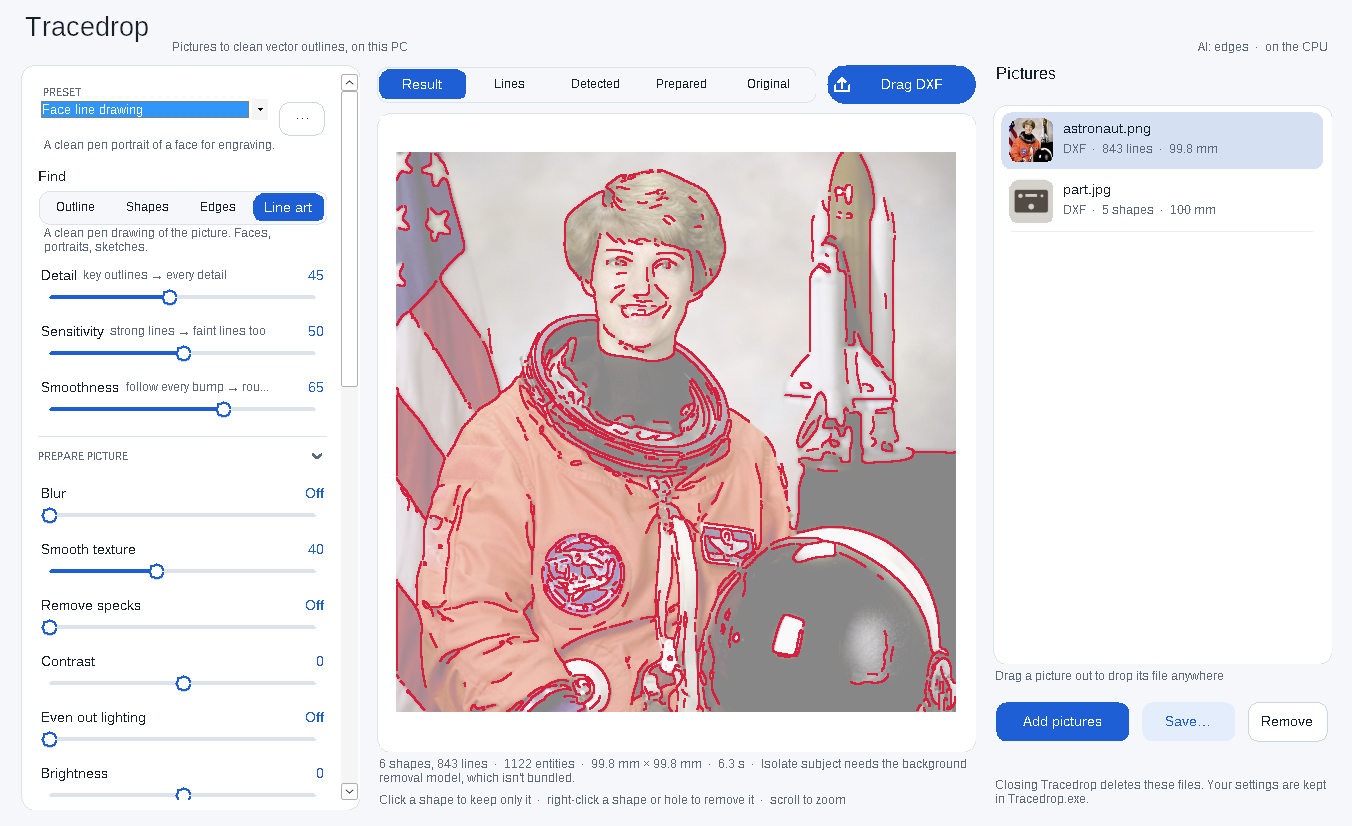
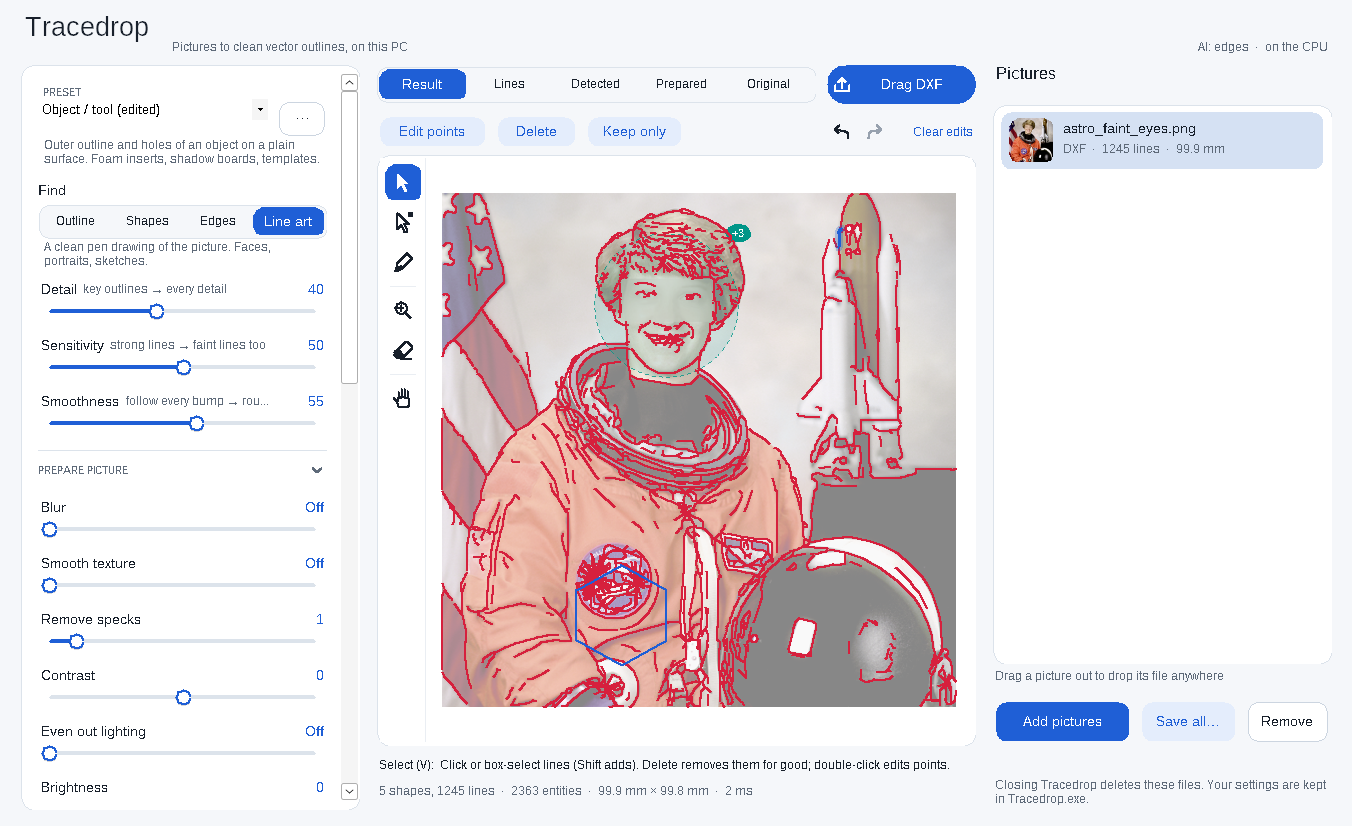
Tool hint on its own line under the canvas; new screenshot
Claude-Session: https://claude.ai/code/session_012qxyHdRBwqJBeKyxpBJzvX

diff --git a/TracedropApp/MainForm.cs b/TracedropApp/MainForm.cs
@@ -53,12 +53,12 @@ sealed partial class MainForm : Form
 
     static string ToolHint(EditTool tool) => tool switch
     {
-        EditTool.Select => "Click a line to select it (Shift adds), or drag a box. Delete removes it for good. Double-click to edit its points.",
-        EditTool.Points => "Click a line to edit its points. Drag points and handles; click the line to add a point. Alt-click: corner ↔ curve.",
-        EditTool.Pen => "Click for corners, drag for curves. Click the first point to close; Enter or right-click finishes; Esc cancels.",
-        EditTool.Find => "Mark where lines are missing: the AI looks again there, zoomed in. Scroll over an area for more or fewer lines.",
-        EditTool.Erase => "Mark where there should be no lines. Right-click an area to remove it. [ ] or Ctrl+scroll sizes it.",
-        _ => "Drag to move around. Scroll to zoom; double-click to fit. Hold Space with any tool to pan."
+        EditTool.Select => "Click or box-select lines (Shift adds). Delete removes them for good; double-click edits points.",
+        EditTool.Points => "Click a line, then drag its points and handles. Click the line to add a point; Alt-click: corner \u2194 curve.",
+        EditTool.Pen => "Click: corner. Drag: curve. Click the first point to close; Enter finishes, Esc cancels.",
+        EditTool.Find => "Mark where lines are missing: the AI looks closer there. Scroll over an area for more or fewer lines.",
+        EditTool.Erase => "Mark where there should be no lines. Right-click an area to remove it; [ ] sizes the brush.",
+        _ => "Drag to pan, scroll to zoom, double-click to fit. Space pans with any tool."
     };
 
     public MainForm(string exePath, string[] startupFiles)
@@ -222,11 +222,20 @@ sealed partial class MainForm : Form
         var infoRow = new Panel { Dock = DockStyle.Bottom, Height = 38 };
         infoRow.Controls.Add(_statsLabel);
 
+        // What the current tool does, on its own line under the canvas.
+        _toolHint.AutoSize = false;
+        _toolHint.Dock = DockStyle.Bottom;
+        _toolHint.Height = 26;
+        _toolHint.TextAlign = ContentAlignment.BottomLeft;
+        _toolHint.AutoEllipsis = true;
+        _toolHint.ForeColor = Palette.Ink;
+
         var spacer = new Panel { Dock = DockStyle.Top, Height = 6 };
         pane.Controls.Add(card);
         pane.Controls.Add(_optionsBar);
         pane.Controls.Add(spacer);
         pane.Controls.Add(topRow);
+        pane.Controls.Add(_toolHint);
         pane.Controls.Add(infoRow);
         return pane;
     }
@@ -249,12 +258,6 @@ sealed partial class MainForm : Form
         _deleteButton.Click += (_, _) => { _preview.DeleteSelection(); _preview.Focus(); };
         _keepOnlyButton.Click += (_, _) => { _preview.KeepOnlySelection(); _preview.Focus(); };
 
-        _toolHint.AutoSize = false;
-        _toolHint.Dock = DockStyle.Fill;
-        _toolHint.TextAlign = ContentAlignment.MiddleLeft;
-        _toolHint.Padding = new Padding(10, 0, 6, 0);
-        _toolHint.AutoEllipsis = true;
-
         _clearEditsLink.Text = "Clear edits";
         _clearEditsLink.LinkArea = new LinkArea(0, _clearEditsLink.Text.Length);
         _clearEditsLink.Font = UiFonts.Small;
@@ -272,7 +275,6 @@ sealed partial class MainForm : Form
         _undoButton.Click += (_, _) => UndoEdit();
         _redoButton.Click += (_, _) => RedoEdit();
 
-        _optionsBar.Controls.Add(_toolHint);
         _optionsBar.Controls.Add(selectActions);
         _optionsBar.Controls.Add(_areaShape);
         // Docked right: the last added sits furthest right, so this reads Undo, Redo, Clear edits.
@@ -287,7 +289,15 @@ sealed partial class MainForm : Form
     {
         var tool = _preview.Tool;
         _palette.Selected = tool;
-        _toolHint.Text = ToolHint(tool);
+        _toolHint.Text = (tool switch
+        {
+            EditTool.Select => "Select (V)",
+            EditTool.Points => "Edit points (A)",
+            EditTool.Pen => "Pen (P)",
+            EditTool.Find => "Find lines here (F)",
+            EditTool.Erase => "Erase lines here (E)",
+            _ => "Hand (H)"
+        }) + ":  " + ToolHint(tool);
         _areaShape.Visible = tool is EditTool.Find or EditTool.Erase;
         var selectActions = _optionsBar.Controls["selectActions"];
         if (selectActions is not null) selectActions.Visible = tool == EditTool.Select;

diff --git a/TracedropApp/MainForm.Items.cs b/TracedropApp/MainForm.Items.cs
@@ -430,6 +430,7 @@ sealed partial class MainForm
     {
         _listHint.Visible = _items.Count > 0;
         _optionsBar.Visible = _items.Count > 0;
+        _toolHint.Visible = _items.Count > 0;
         _palette.Visible = _items.Count > 0;
         if (_items.Count == 0) ShowItem(null);
         Text = _items.Count > 0 ? $"Tracedrop ({_items.Count})" : "Tracedrop";
